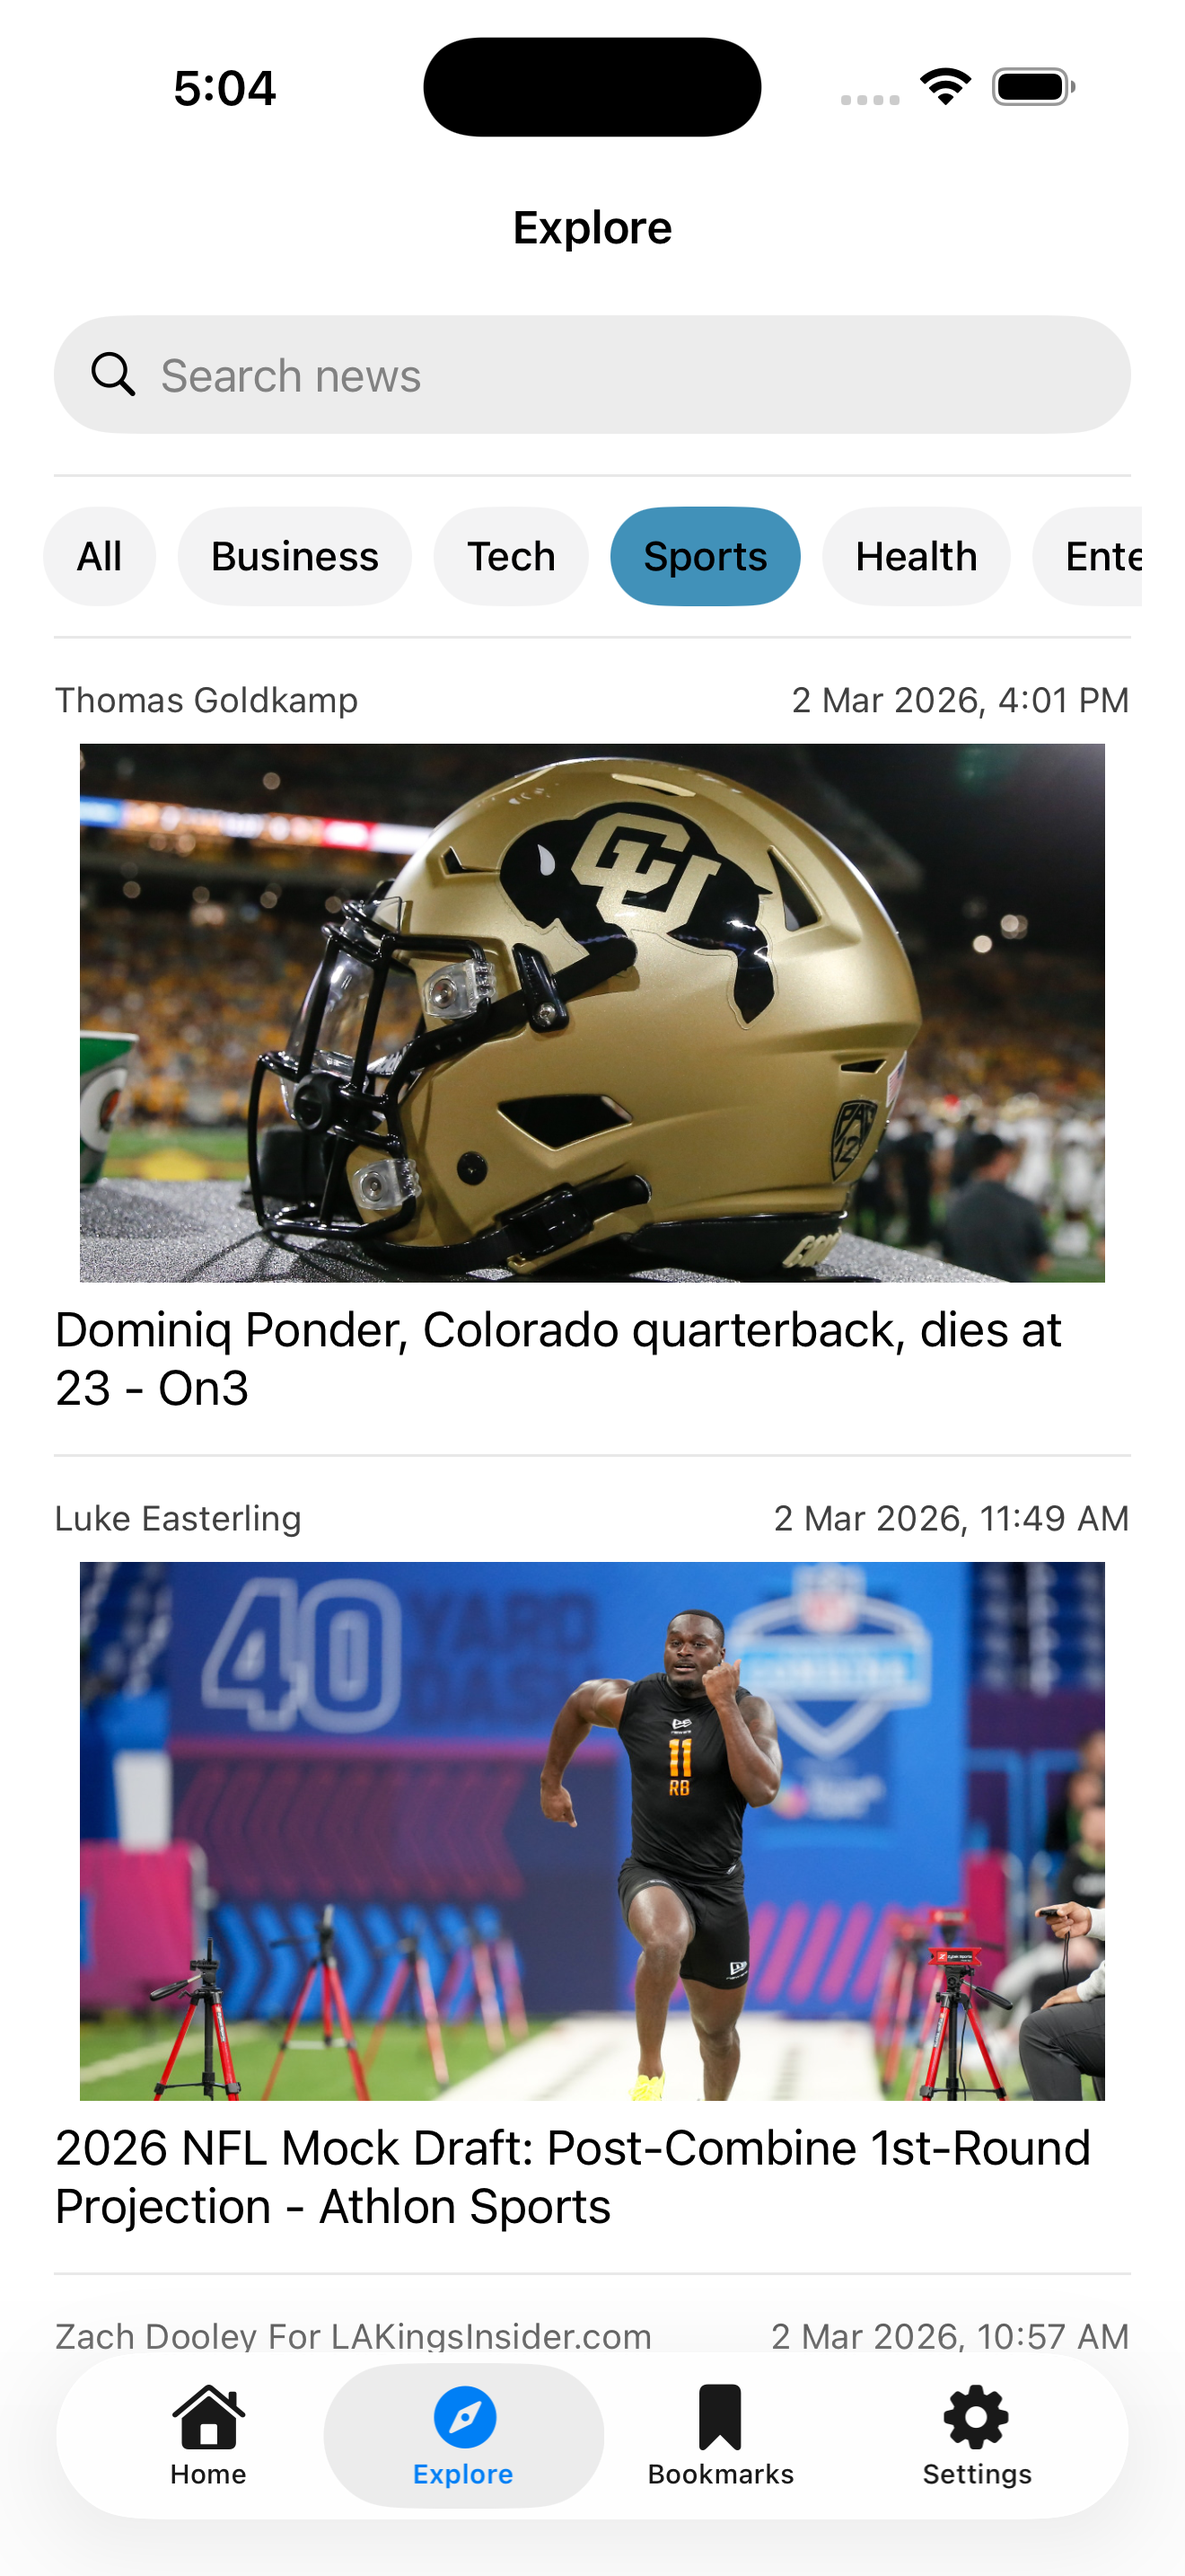
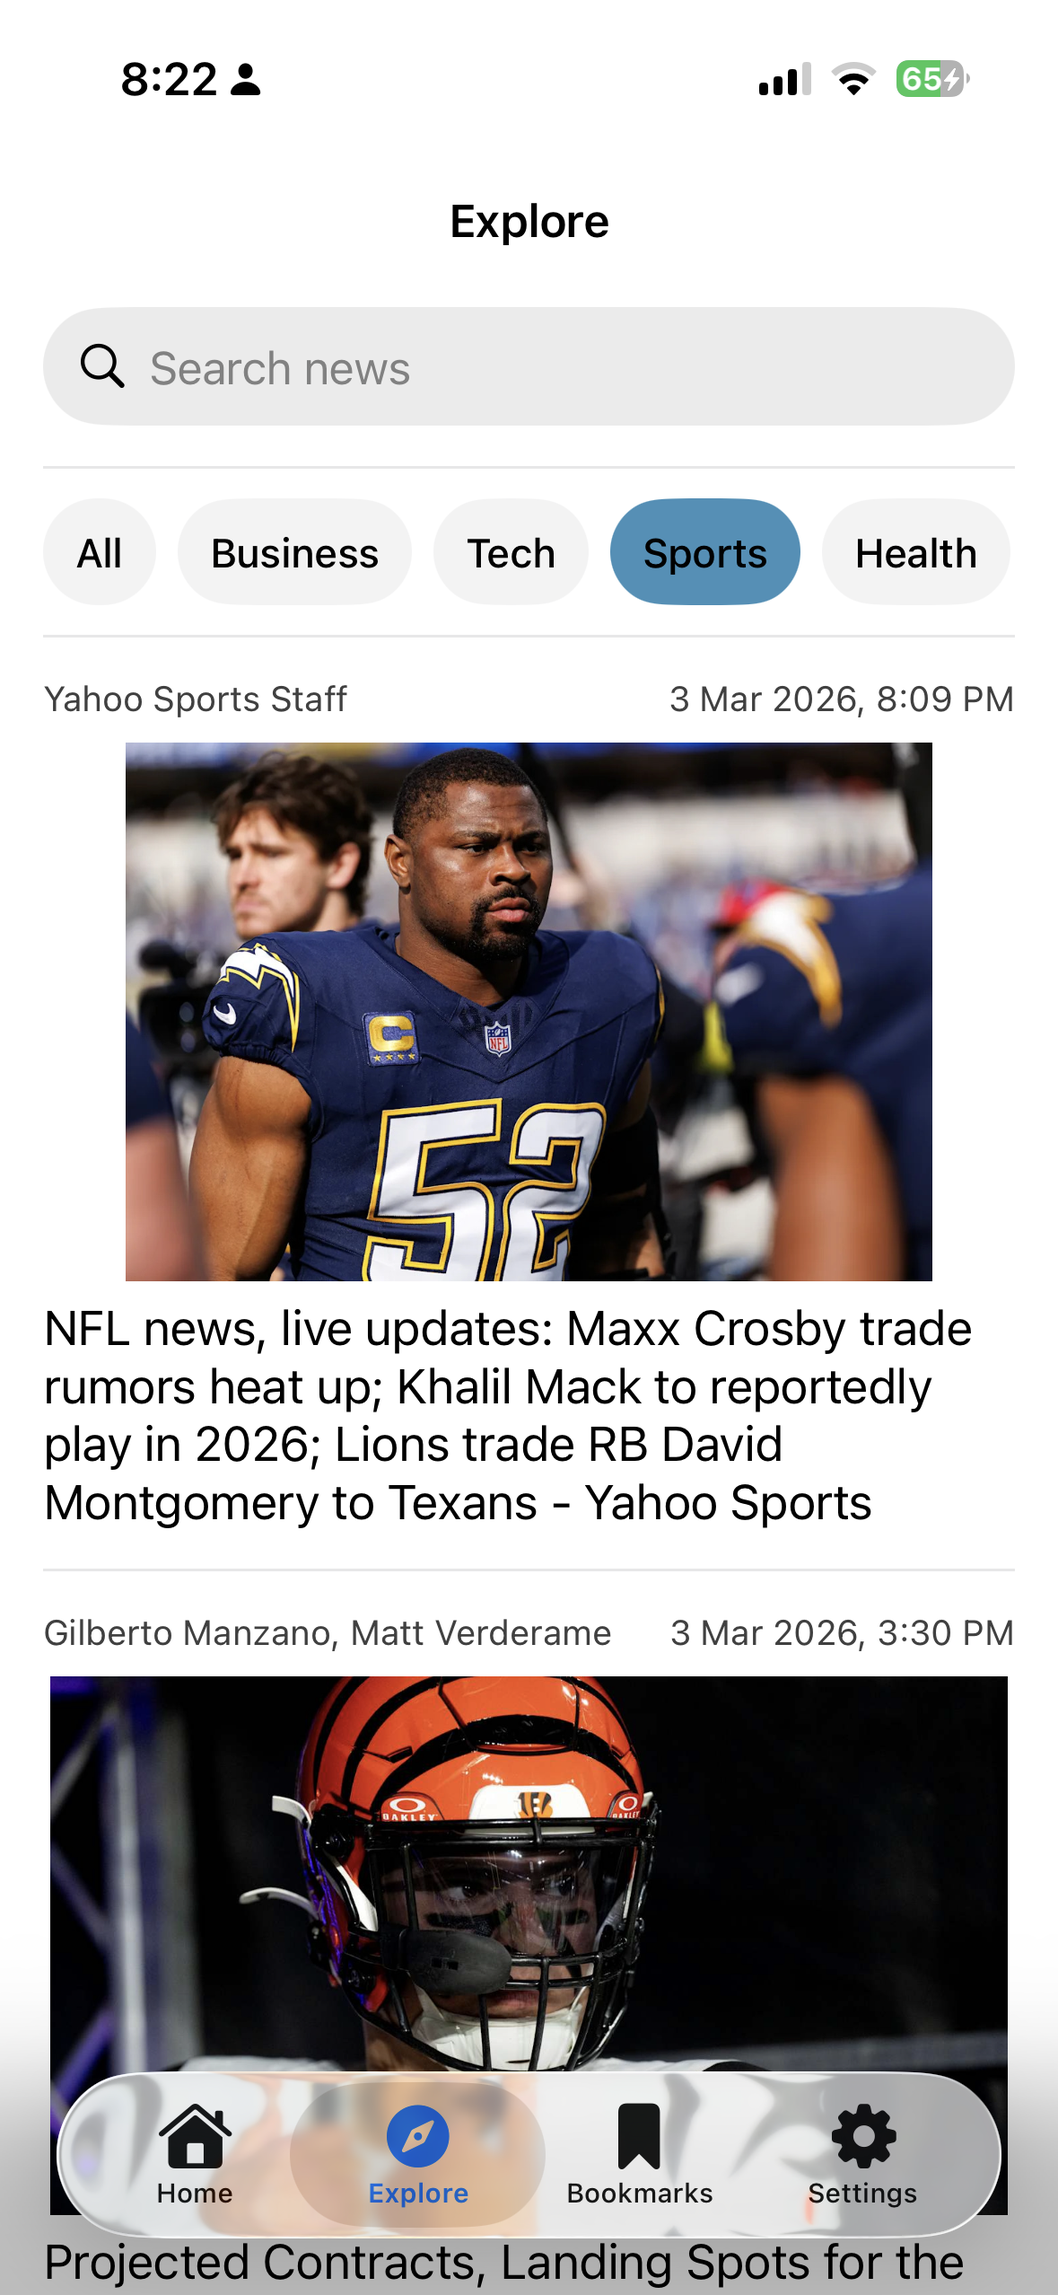
Update screenshots and add screen recording link in Readme

diff --git a/NewsApp-SwiftUI/View/NewsViewListItem.swift b/NewsApp-SwiftUI/View/NewsViewListItem.swift
@@ -19,6 +19,8 @@ struct NewsViewListItem: View {
                 Text(authorName)
                     .font(.system(size: 13))
                     .foregroundStyle(.primary.opacity(0.75))
+                    .lineLimit(2)
+                    .truncationMode(.tail)
                 
                 Spacer()
                 Text(date)

diff --git a/README.md b/README.md
@@ -104,24 +104,25 @@ This project is protocol-driven. Core domains expose **protocols** and concrete 
 ## Screenshots
 
 Check [Screenshots](Screenshots)
-- [01_launch_light.png](Screenshots/01_launch_light.png) — Launch (Light)
-- [02_news_list_light.png](Screenshots/02_news_list_light.png) — Headlines list (Light)
-- [03_news_detail_light.png](Screenshots/03_news_detail_light.png) — Article detail (Light)
-- [04_news_explore_sports_light.png](Screenshots/04_news_explore_sports_light.png) — Explore: category (Light)
-- [05_news_search_light.png](Screenshots/05_news_search_light.png) — Explore: search (Light)
-- [06_bookmarks_blank_light.png](Screenshots/06_bookmarks_blank_light.png) — Bookmarks empty (Light)
-- [07_bookmarks_saved_light.png](Screenshots/07_bookmarks_saved_light.png) — Bookmarks saved (Light)
-- [08_recent_history_light.png](Screenshots/08_recent_history_light.png) — Recent history (Light)
-- [09_settings_light.png](Screenshots/09_settings_light.png) — Settings (Light)
-- [10_settings_confirm_prompt_light.png](Screenshots/10_settings_confirm_prompt_light.png) — Settings confirmation prompt (Light)
-- [11_error_propagation_light.png](Screenshots/11_error_propagation_light.png) — Error state (Light)
-- [12_pull_to_refresh_loading_light.png](Screenshots/12_pull_to_refresh_loading_light.png) — Pull-to-refresh loading (Light)
-- [13_news_list_dark.png](Screenshots/13_news_list_dark.png) — Headlines list (Dark)
-- [14_news_detail_dark.png](Screenshots/14_news_detail_dark.png) — Article detail (Dark)
-- [15_news_explore_dark.png](Screenshots/15_news_explore_dark.png) — Explore (Dark)
-- [16_bookmarks_saved_dark.png](Screenshots/16_bookmarks_saved_dark.png) — Bookmarks saved (Dark)
-- [17_settings_dark.png](Screenshots/17_settings_dark.png) — Settings (Dark)
 
+* [01_news_landing_page_light.png](Screenshots/01_news_landing_page_light.png) — News landing page (Light)
+* [02_news_detailview_webpage_light_.png](Screenshots/02_news_detailview_webpage_light_.png) — Article detail (WebView) (Light)
+* [03_news_detailview_share_options_light.png](Screenshots/03_news_detailview_share_options_light.png) — Share options (Light)
+* [04_news_explore_sports_light.png](Screenshots/04_news_explore_sports_light.png) — Explore: Sports (Light)
+* [05_news_explore_sports_search_light.png](Screenshots/05_news_explore_sports_search_light.png) — Explore: Sports search (Light)
+* [06_bookmarks_light.png](Screenshots/06_bookmarks_light.png) — Bookmarks (Light)
+* [07_recent_history_light.png](Screenshots/07_recent_history_light.png) — Recent history (Light)
+* [08_settings_light.png](Screenshots/08_settings_light.png) — Settings (Light)
+* [9_news_landing_page_dark.png](Screenshots/9_news_landing_page_dark.png) — News landing page (Dark)
+* [10_news_explore_tech_dark.png](Screenshots/10_news_explore_tech_dark.png) — Explore: Tech (Dark)
+* [11_recent_history_dark.png](Screenshots/11_recent_history_dark.png) — Recent history (Dark)
+* [12_settings_dark.png](Screenshots/12_settings_dark.png) — Settings (Dark)
+
+---
+
+## Demo Video (Screen Recording)
+
+[Watch on YouTube](https://www.youtube.com/watch?v=Qhq0Y1JGW4M)
 ---
 
 ## Project Structure
